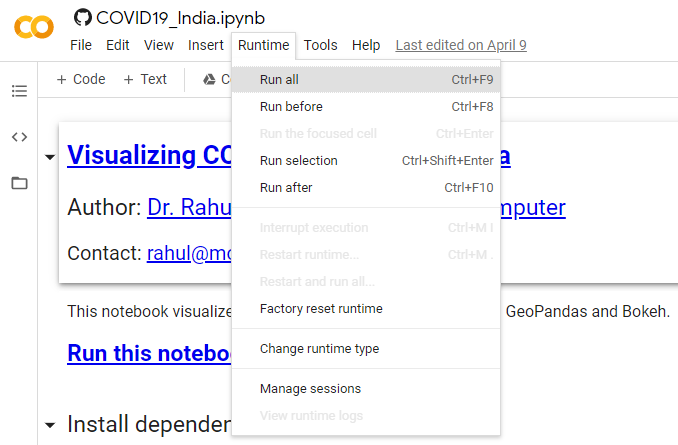
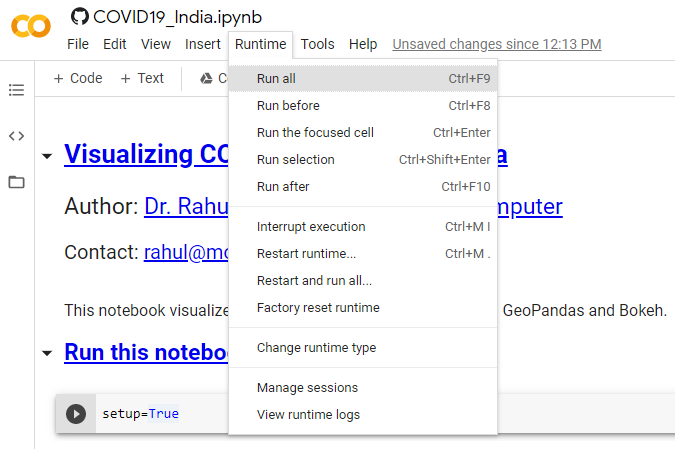
Added Google Colab how-to and minor edits to COVID19_India.ipynb and README

diff --git a/README.md b/README.md
@@ -5,6 +5,27 @@ Visualization tool for COVID19 outbreak using GeoPandas and Bokeh
 
 ### 1. [Jupyter notebook](https://github.com/MoadComputer/covid19-visualization/blob/master/examples/COVID19_India.ipynb) or [Google Colab](https://colab.research.google.com/github/MoadComputer/covid19-visualization/blob/master/examples/COVID19_India.ipynb)
 
+* For Jupyter/JupyterHub/JupyterLab in AMD64/x86-64 Linux machines: 
+  * Run the notebook by selecting from the menu: ```Kernel``` and  then: ```
+
+* For Jupyter in AARCH64 Linux machines:
+  * Deploy Bokeh server for AARCH64 Linux using the cheatsheet below
+  * Edit the first cell to: ```setup=False```
+  * Run the notebook
+
+* For Jupyter in Windows machines:
+  * Deploy Bokeh server using the cheatsheet below
+  * Activate the conda virtualenv: ```conda activate GeoPandas```
+  * Install Jupyter and ipykernel: ```conda install -c conda-forge python=3 notebook ipykernel --yes```
+  * Run Jupyter: ```jupyter notebook```
+  * Edit the first cell to: ```setup=False```
+  * Run the notebook
+
+* For Google Colab:
+  * Launch using the Google Colab link, go to: ```Runtime```, select: ```Run all`` or press ```CTRL+F9```
+  * Accept the Google Colab warning about notebook not authored by Google by clicking: ```Run anyway```
+  ![Google Colab example](https://colab.research.google.com/github/MoadComputer/covid19-visualization/blob/master/examples/COVID19_India.ipynb)
+
 ### 2. Web application ([eg. using Heroku](https://covid19india-visualization.herokuapp.com/COVID19_India))
 
 * Install [Heroku CLI](https://devcenter.heroku.com/articles/heroku-cli) and login to your Heroku account
@@ -44,8 +65,8 @@ Visualization tool for COVID19 outbreak using GeoPandas and Bokeh
 
 **For Windows users (require [Anaconda Python3](https://repo.anaconda.com/archive/Anaconda3-2020.02-Windows-x86_64.exe))**
 
-* Create virtual Anaconda3 environment: ```conda env create --name GeoPandas python```
+* Create virtual Anaconda3 environment: ```conda create -n GeoPandas -c conda-forge python=3.7 geopandas --yes```
 * Activate virtual Anaconda3 environment: ```conda env activate GeoPandas```
-* [Install GeoPandas using conda forge](https://geopandas.org/install.html): ```conda install --channel conda-forge geopandas```
-* [Download and extract libspatialindex dlls](http://download.osgeo.org/libspatialindex/libspatialindex-1.8.0-win-msvc-2010-x64-x32.zip) to: ```C:\ProgramData\Anaconda3\envs\GeoPandas```
 * Install git: ```conda install -c anaconda git```
+* Install bokeh: ```conda install -c bokeh bokeh```
+* Install matplolib: ```conda install -n GeoPandas -c conda-forge matplotlib descartes```
